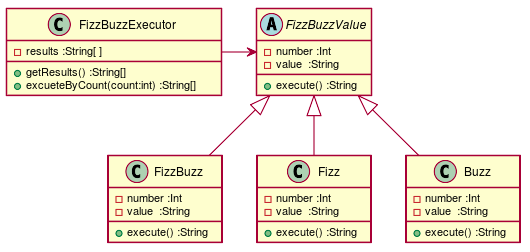
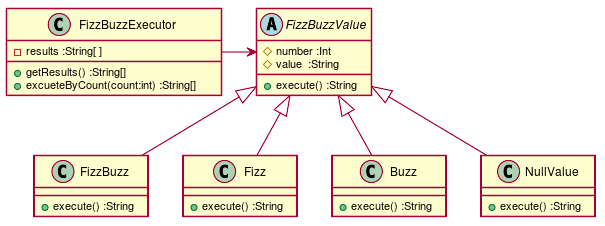
FizzBuzz #EFJ-8
・実装:オブジェクトを返すようにする

diff --git a/src/main/java/tdd/fizzbuzz/FizzBuzzExecutor.java b/src/main/java/tdd/fizzbuzz/FizzBuzzExecutor.java
@@ -8,15 +8,10 @@ public class FizzBuzzExecutor {
     }
 
     public static void executeByCount(int count) {
-        FizzBuzzValue value;
         results = new String[count + 1];
         for (int i = 0; i <= count; ++i) {
-            value = FizzBuzzValue.makeFizzBuzzValue(i);
-            if (value == null) {
-                results[i] = String.valueOf(i);
-            } else {
-                results[i] = value.execute();
-            }
+            FizzBuzzValue value = FizzBuzzValue.makeFizzBuzzValue(i);
+            results[i] = value.execute();
         }
     }
 }

diff --git a/src/main/java/tdd/fizzbuzz/FizzBuzzValue.java b/src/main/java/tdd/fizzbuzz/FizzBuzzValue.java
@@ -1,8 +1,8 @@
 package tdd.fizzbuzz;
 
 abstract class FizzBuzzValue {
-    private int _number;
-    private String _value;
+    protected int _number;
+    protected String _value;
 
     abstract String execute();
 
@@ -14,7 +14,7 @@ abstract class FizzBuzzValue {
         } else if (number % 3 == 0) {
             return new Fizz(number);
         } else {
-            return null;
+            return new NullValue(number);
         }
     }
 }

diff --git a/src/main/java/tdd/fizzbuzz/NullValue.java b/src/main/java/tdd/fizzbuzz/NullValue.java
@@ -1,11 +1,10 @@
 package tdd.fizzbuzz;
 
-public class FizzBuzz extends FizzBuzzValue {
-    public FizzBuzz(int number) {
+public class NullValue extends FizzBuzzValue {
+    public NullValue(int number) {
         _number = number;
-        _value = "FizzBuzz";
+        _value = String.valueOf(number);
     }
-
     @Override
     String execute() {
         return _value;

diff --git a/src/main/java/tdd/fizzbuzz/Buzz.java b/src/main/java/tdd/fizzbuzz/Buzz.java
@@ -2,11 +2,12 @@ package tdd.fizzbuzz;
 
 public class Buzz extends FizzBuzzValue {
     public Buzz(int number) {
-        super();
+        _number = number;
+        _value = "Buzz";
     }
 
     @Override
     String execute() {
-        return "Buzz";
+        return _value;
     }
 }

diff --git a/src/main/java/tdd/fizzbuzz/Fizz.java b/src/main/java/tdd/fizzbuzz/Fizz.java
@@ -2,11 +2,12 @@ package tdd.fizzbuzz;
 
 public class Fizz extends FizzBuzzValue {
     public Fizz(int number) {
-        super();
+        _number = number;
+        _value = "Fizz";
     }
 
     @Override
     String execute() {
-        return "Fizz";
+        return _value;
     }
 }

diff --git a/docs/fizzbuzz.md b/docs/fizzbuzz.md
@@ -29,14 +29,19 @@
 ### クラス図
   
 
-![](./assets/e8d064149b1f1533be1aa0a12f272e560.png?0.5126498026680886)  
+![](./assets/e8d064149b1f1533be1aa0a12f272e560.png?0.9053063069169198)  
 ### シーケンス図
   
 
-![](./assets/e8d064149b1f1533be1aa0a12f272e561.png?0.28571632574818606)  
+![](./assets/e8d064149b1f1533be1aa0a12f272e561.png?0.5073297490685269)  
   
 ## 実装
   
+### ふりかえり
+  
++ ValueObjectパターンを導入した
++ メンバ変数にプロテクティッドタイプを使って継承したクラスでだけ使えるようにした
++ 条件に該当しないケースた対応するためNullObjectパターンを導入した
   
 ### `FizzBuzzTest.java`
   
@@ -101,8 +106,8 @@ public class FizzBuzzTest {
 package tdd.fizzbuzz;
   
 abstract class FizzBuzzValue {
-    private int _number;
-    private String _value;
+    protected int _number;
+    protected String _value;
   
     abstract String execute();
   
@@ -114,7 +119,7 @@ abstract class FizzBuzzValue {
         } else if (number % 3 == 0) {
             return new Fizz(number);
         } else {
-            return null;
+            return new NullValue(number);
         }
     }
 }
@@ -127,12 +132,13 @@ package tdd.fizzbuzz;
   
 public class FizzBuzz extends FizzBuzzValue {
     public FizzBuzz(int number) {
-        super();
+        _number = number;
+        _value = "FizzBuzz";
     }
   
     @Override
     String execute() {
-        return "FizzBuzz";
+        return _value;
     }
 }
   
@@ -144,12 +150,13 @@ package tdd.fizzbuzz;
   
 public class Fizz extends FizzBuzzValue {
     public Fizz(int number) {
-        super();
+        _number = number;
+        _value = "Fizz";
     }
   
     @Override
     String execute() {
-        return "Fizz";
+        return _value;
     }
 }
   
@@ -161,12 +168,30 @@ package tdd.fizzbuzz;
   
 public class Buzz extends FizzBuzzValue {
     public Buzz(int number) {
-        super();
+        _number = number;
+        _value = "Buzz";
     }
   
     @Override
     String execute() {
-        return "Buzz";
+        return _value;
+    }
+}
+  
+```  
+### `NullValue.java`
+  
+```java
+package tdd.fizzbuzz;
+  
+public class NullValue extends FizzBuzzValue {
+    public NullValue(int number) {
+        _number = number;
+        _value = String.valueOf(number);
+    }
+    @Override
+    String execute() {
+        return _value;
     }
 }
   
@@ -188,11 +213,7 @@ public class FizzBuzzExecutor {
         results = new String[count + 1];
         for (int i = 0; i <= count; ++i) {
             value = FizzBuzzValue.makeFizzBuzzValue(i);
-            if (value == null) {
-                results[i] = String.valueOf(i);
-            } else {
-                results[i] = value.execute();
-            }
+            results[i] = value.execute();
         }
     }
 }

diff --git a/docs/src/fizzbuzz.md b/docs/src/fizzbuzz.md
@@ -37,29 +37,28 @@ class FizzBuzzExecutor {
   +excueteByCount(count:int) :String[]
 }
 abstract class FizzBuzzValue {
-  -number :Int
-  -value  :String
+  #number :Int
+  #value  :String
   +execute() :String
 }
 class FizzBuzz {
-  -number :Int
-  -value  :String  
   +execute() :String
 }
 class Fizz {
-  -number :Int
-  -value  :String  
+
   +execute() :String
 }
 class Buzz {
-  -number :Int
-  -value  :String  
+  +execute() :String  
+}
+class NullValue {
   +execute() :String  
 }
 FizzBuzzExecutor -> FizzBuzzValue
 FizzBuzzValue <|-- Fizz
 FizzBuzzValue <|-- Buzz
 FizzBuzzValue <|-- FizzBuzz
+FizzBuzzValue <|-- NullValue
 
 @enduml
 ```
@@ -80,6 +79,10 @@ FizzBuzzValue <|-- FizzBuzz
 ```
 
 ## 実装
+### ふりかえり
++ ValueObjectパターンを導入した
++ メンバ変数にプロテクティッドタイプを使って継承したクラスでだけ使えるようにした
++ 条件に該当しないケースた対応するためNullObjectパターンを導入した
 
 ### `FizzBuzzTest.java`
 @import "../../src/test/java/tdd/fizzbuzz/FizzBuzzTest.java"
@@ -91,6 +94,8 @@ FizzBuzzValue <|-- FizzBuzz
 @import "../../src/main/java/tdd/fizzbuzz/Fizz.java"
 ### `Buzz.java`
 @import "../../src/main/java/tdd/fizzbuzz/Buzz.java"
+### `NullValue.java`
+@import "../../src/main/java/tdd/fizzbuzz/NullValue.java"
 ### `FizzBuzzExecutor.java`
 @import "../../src/main/java/tdd/fizzbuzz/FizzBuzzExecutor.java"
 
